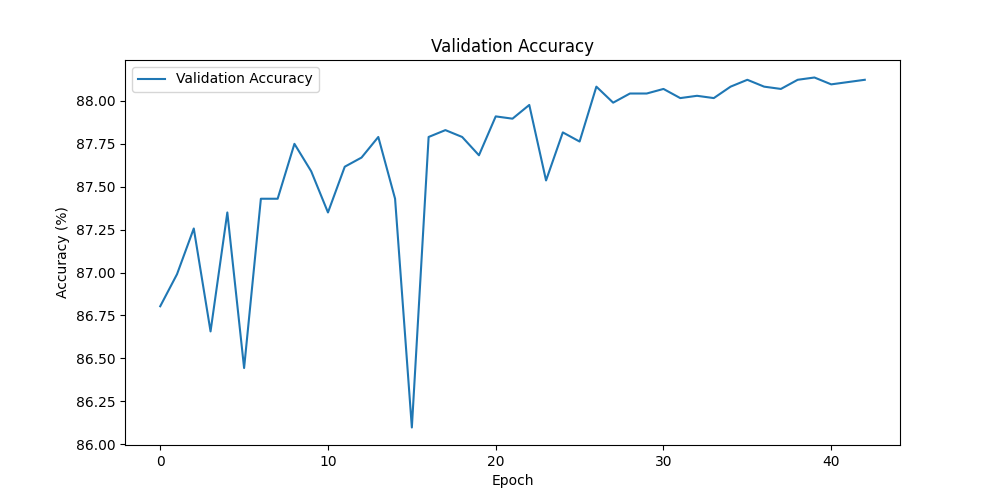
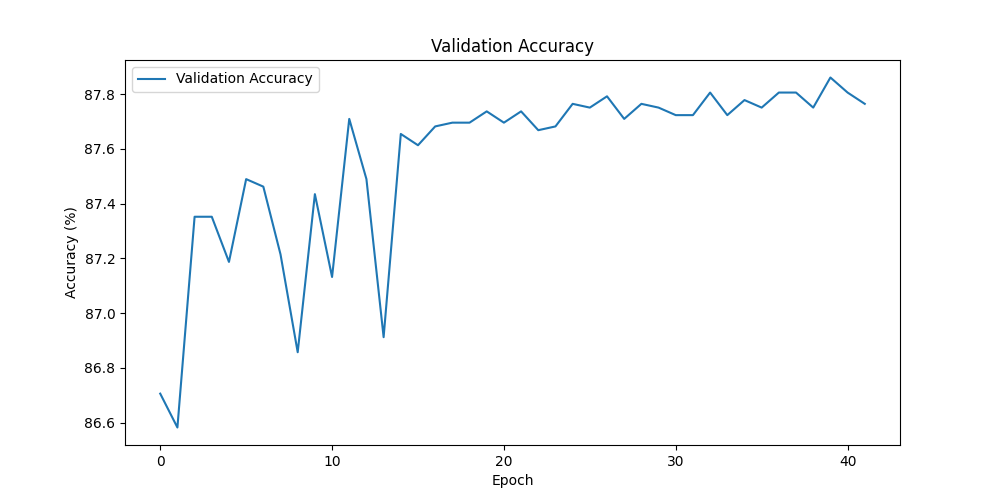
implemented "Detecting and filtering errors" feature on training of model with slight improvement

diff --git a/src/data_preprocessing.py b/src/data_preprocessing.py
@@ -1,10 +1,14 @@
 import re
 import pandas as pd
+import numpy as np
 from nltk.tokenize import word_tokenize
 from nltk.corpus import stopwords
 from nltk.stem import WordNetLemmatizer
 from nltk.util import ngrams
 from tqdm import tqdm
+from sklearn.feature_extraction.text import TfidfVectorizer
+from sklearn.ensemble import IsolationForest
+from textblob import TextBlob
 
 import nltk
 nltk.download('punkt')
@@ -44,15 +48,56 @@ def preprocess_text(text, n=2):
     
     return ' '.join(words)
 
+def detect_anomalies(texts, contamination=0.03):
+    # Convert texts to TF-IDF features
+    vectorizer = TfidfVectorizer(max_features=5000)
+    X = vectorizer.fit_transform(texts)
+    
+    # Use Isolation Forest to detect anomalies
+    iso_forest = IsolationForest(contamination=contamination, random_state=42)
+    anomalies = iso_forest.fit_predict(X)
+    
+    return anomalies == -1  # True for anomalies, False for normal data points
+
+def sentiment_consistency_check(reviews, sentiments, threshold=0.5):
+    inconsistent = []
+    for review, sentiment in zip(reviews, sentiments):
+        blob = TextBlob(review)
+        polarity = blob.sentiment.polarity
+        
+        if (sentiment == 'positive' and polarity < -threshold) or \
+           (sentiment == 'negative' and polarity > threshold):
+            inconsistent.append(True)
+        else:
+            inconsistent.append(False)
+    
+    return inconsistent
+
 def main():
     dataset_path = 'data/raw/IMDB_Dataset.csv'
     imdb_data = pd.read_csv(dataset_path)
     
     tqdm.pandas(desc="Processing reviews")
-    imdb_data['cleaned_review'] = imdb_data['review'].progress_apply(lambda x: preprocess_text(x, n=2))  # Set n to 2 for bigrams
+    imdb_data['cleaned_review'] = imdb_data['review'].progress_apply(lambda x: preprocess_text(x, n=2))
     
-    imdb_data.to_csv('data/processed/IMDB_Dataset_Cleaned.csv', index=False)
-    print("Data preprocessing complete and saved to processed directory.")
+    # Detect anomalies
+    print("Detecting anomalies...")
+    anomalies = detect_anomalies(imdb_data['cleaned_review'])
+    
+    # Check sentiment consistency
+    print("Checking sentiment consistency...")
+    inconsistent = sentiment_consistency_check(imdb_data['review'], imdb_data['sentiment'])
+    
+    # Combine filters
+    suspicious = np.logical_or(anomalies, inconsistent)
+    
+    # Remove suspicious data points
+    clean_data = imdb_data[~suspicious].reset_index(drop=True)
+    
+    print(f"Removed {sum(suspicious)} suspicious data points out of {len(imdb_data)}.")
+    
+    clean_data.to_csv('data/processed/IMDB_Dataset_Cleaned_Filtered.csv', index=False)
+    print("Data preprocessing and filtering complete. Saved to processed directory.")
 
 if __name__ == "__main__":
     main()

diff --git a/src/evaluate_model.py b/src/evaluate_model.py
@@ -35,15 +35,14 @@ def evaluate_model(model, test_loader, test_data):
             for i in range(len(label)):
                 review_idx = batch_idx * test_loader.batch_size + i
                 original_review = test_data.iloc[review_idx]['review']
-                cleaned_review = test_data.iloc[review_idx]['cleaned_review']
 
                 true_label = LABEL_MAP[label[i].item()]
                 predicted_label = LABEL_MAP[predicted[i].item()]
 
                 if predicted[i] == label[i]:
-                    correct_predictions.append((original_review, cleaned_review, true_label, predicted_label))
+                    correct_predictions.append((original_review, true_label, predicted_label))
                 else:
-                    incorrect_predictions.append((original_review, cleaned_review, true_label, predicted_label))
+                    incorrect_predictions.append((original_review, true_label, predicted_label))
 
     test_accuracy = 100 * correct / total
     print(f'\nTest Accuracy: {test_accuracy:.2f}%')
@@ -73,11 +72,11 @@ def evaluate_model(model, test_loader, test_data):
     # Show random 3 correct and 3 incorrect predictions
     print("\nSample Correct Predictions:")
     for sample in random.sample(correct_predictions, min(3, len(correct_predictions))):
-        print(f"Review: {sample[0]}\nCleaned Review: {sample[1]}\nTrue Label: {sample[2]}, Predicted Label: {sample[3]}\n")
+        print(f"Review: {sample[0]}\nTrue Label: {sample[1]}, Predicted Label: {sample[2]}\n")
 
     print("\nSample Incorrect Predictions:")
     for sample in random.sample(incorrect_predictions, min(3, len(incorrect_predictions))):
-        print(f"Review: {sample[0]}\nCleaned Review: {sample[1]}\nTrue Label: {sample[2]}, Predicted Label: {sample[3]}\n")
+        print(f"Review: {sample[0]}\nTrue Label: {sample[1]}, Predicted Label: {sample[2]}\n")
 
 def main():
     data_path = 'data/processed/IMDB_Dataset_Cleaned.csv'

diff --git a/src/train_sentiment_model.py b/src/train_sentiment_model.py
@@ -174,7 +174,7 @@ def main():
     # Ensure the results/plots directory exists
     os.makedirs('results/plots', exist_ok=True)
     
-    data_path = 'data/processed/IMDB_Dataset_Cleaned.csv'
+    data_path = 'data/processed/IMDB_Dataset_Cleaned_Filtered.csv'
     train_loader, val_loader, test_loader = load_data(data_path)
 
     model = FastTextClassifier(embedding_dim)

diff --git a/src/train_word_embeddings.py b/src/train_word_embeddings.py
@@ -46,7 +46,7 @@ def train_embeddings(data):
 
 def main():
     # Path to the cleaned dataset
-    dataset_path = 'data/processed/IMDB_Dataset_Cleaned.csv'
+    dataset_path = 'data/processed/IMDB_Dataset_Cleaned_Filtered.csv'
     
     # Load the cleaned text data
     imdb_data = load_data(dataset_path)

diff --git a/README.md b/README.md
@@ -8,12 +8,21 @@ Movie Review data downloaded at Kaggle from: https://www.kaggle.com/datasets/lak
 
 ## Best Model Performance
 
-My best training of the model achieved the following scores:
+After implementing Noise Robust Learning techniques, the model performance improved slightly:
+
+- Test Accuracy: 88.72% (↑0.19%)
+- Precision: 0.8760 (↓0.0079)
+- Recall: 0.9021 (↑0.0149)
+- F1 Score: 0.8889 (↑0.0034)
+
+Previous best performance:
 
 - Test Accuracy: 88.53%
 - Precision: 0.8839
 - Recall: 0.8872
 - F1 Score: 0.8855
+
+The improvements in accuracy, recall, and F1 score demonstrate the effectiveness of the Noise Robust Learning techniques in enhancing the model's performance.
 
 ## Project Structure
 
@@ -106,28 +115,61 @@ This script preprocesses the input review, vectorizes it using the Word2Vec embe
 ## Summary of Scripts
 
 - **data_preprocessing.py**
+
   - Purpose: Preprocess the raw IMDB dataset by cleaning text, tokenizing, lemmatizing, and generating n-grams.
   - Output: A cleaned and processed CSV file saved in `data/processed/`.
 
 - **train_word_embeddings.py**
+
   - Purpose: Train Word2Vec embeddings on the processed text data.
   - Output: A binary file containing the trained word vectors saved in `models/word2vec_imdb_v2.bin`.
 
 - **train_sentiment_model.py**
+
   - Purpose: Train a FastText-based classifier using the vectorized n-grams to classify sentiments as positive or negative.
   - Output: The best model is saved to `models/fasttext_classifier_best.pth`, and the final model is saved to `models/fasttext_classifier_final.pth`.
 
 - **evaluate_model.py**
+
   - Purpose: Evaluate the trained sentiment classifier on the test dataset and print/save performance metrics.
   - Output: Metrics saved in `results/metrics/evaluation_metrics.txt`.
 
 - **self_judge_embedding.py**
+
   - Purpose: Allow users to explore the Word2Vec embeddings by finding similar words or n-grams.
   - Output: Prints the most similar terms to a given input.
 
 - **self_judge_sentiment.py**
   - Purpose: Allow users to input custom movie reviews and predict their sentiment using the trained model.
   - Output: Prints the predicted sentiment for the input review.
+
+## Noise Robust Learning Features
+
+This project implements several techniques for Noise Robust Learning to improve the model's performance on potentially noisy datasets:
+
+### 1. Anomaly Detection
+
+- **Isolation Forest**: Used to detect unusual reviews based on their TF-IDF representations.
+- **Implementation**: `detect_anomalies()` function in `data_preprocessing.py`.
+- **Purpose**: Identifies reviews that are statistically different from the majority, which could indicate mislabeling or outliers.
+
+### 2. Sentiment Consistency Check
+
+- **TextBlob Polarity**: Compares the assigned sentiment label with the calculated polarity of the review text.
+- **Implementation**: `sentiment_consistency_check()` function in `data_preprocessing.py`.
+- **Purpose**: Flags reviews where the assigned label contradicts the apparent sentiment of the text.
+
+### 3. Data Cleaning
+
+- Combines results from anomaly detection and sentiment consistency check.
+- Removes suspicious data points from the training set.
+- Improves the quality of the training data by eliminating potential labeling errors.
+
+These techniques help in creating a more robust model by:
+
+- Reducing the impact of mislabeled data
+- Improving the overall quality of the training dataset
+- Potentially increasing the model's generalization capabilities
 
 ## License
 
